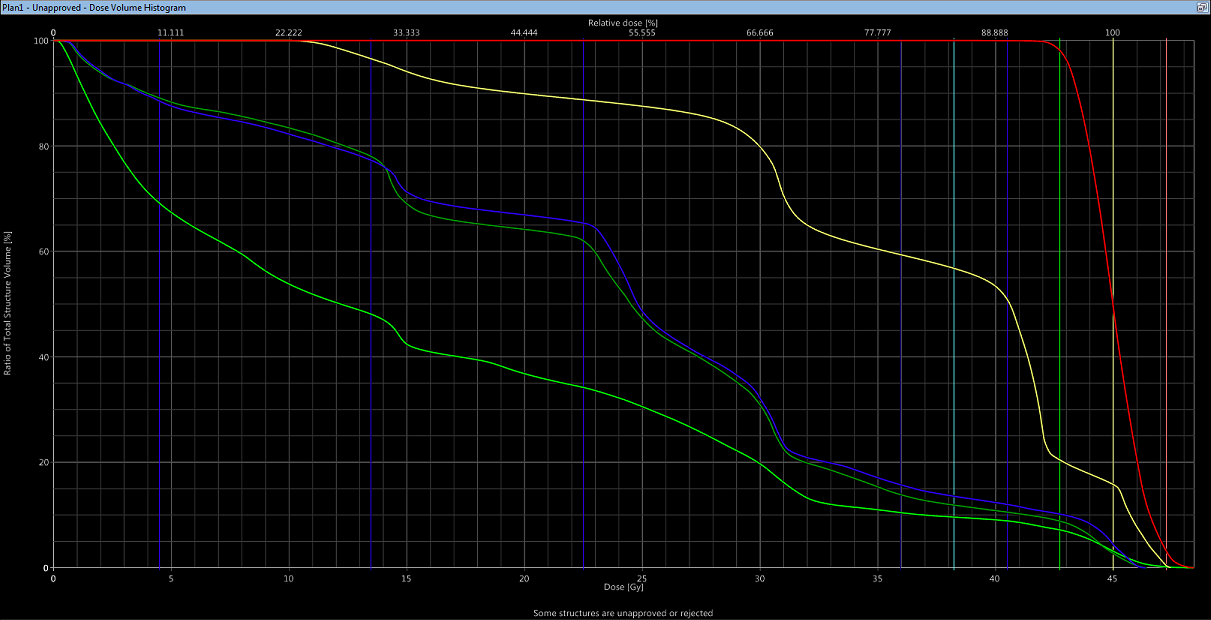
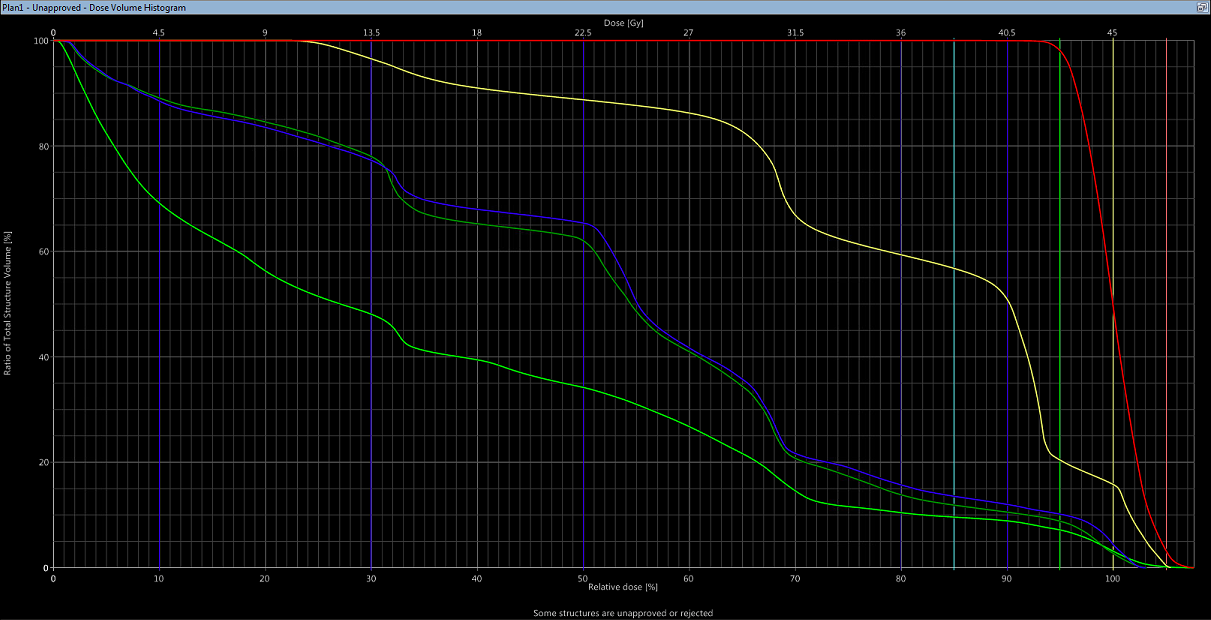
Rektum

diff --git a/TPSPraktikum-master/TPSPraktikum-master/Rektum/content/diskussion.tex b/TPSPraktikum-master/TPSPraktikum-master/Rektum/content/diskussion.tex
@@ -1,2 +1,126 @@
 \section{Auswertung und Diskussion}
 \label{sec:AuswertungDiskussion}
+
+\subsection*{Bestrahlungsplan für das PTV1}
+
+Mit dem ersten Bestrahlungsplan wird das PTV1 bestrahlt. Die resultierende Dosisverteilung
+ist in den Abbildungen \ref{abb:Z1}, \ref{abb:Y1} und \ref{abb:X1} dargestellt.
+Dabei ist die Dosisverteilung aus der transversalen, frontalen und sagittalen Ansicht gezeigt.
+Anhand der Dosisverteilung ist zu erkennen, dass obwohl das PTV1 relativ groß ist, es gut gelungen ist das
+PTV1 mit der $95\%$ Isodosenlinie zu umschließen. Das PTV1 geht bis zum Anus und da dieser Bereich nah an der Körperoberfläche
+liegt, war es in diesem Bereich nicht möglich eine relative Dosis von $95\%$ zu erreichen.
+Außerdem ist zu erkennen, dass die maximale relative Dosis $107,6\%$ innerhalb des PTV1 liegt und auch nur minimal
+über der erlaubten maximalen Dosis von $107\%$ liegt \cite{ICRU}. Es wird zum Teil auch ausserhalb des PTVs eine hohe relative Dosis deponiert.
+Das kommt daher, da das PTV teilweise von Knochen umgeben ist und es somit unvermeidlich ist, dass dort eine hohe Dosis deponiert wird.
+Die minimale relative Dosis, die im PTV1 deponiert wird ist $78,9\%$. Diese liegt unterhalb der gewünschten relativen Dosis von $95\%$ und das
+liegt zum einen an den bereits beschriebenen Gründen und zum anderen daran, dass die Blase so gut wie möglich geschont werden muss.
+
+\begin{figure}[H]
+  \centering
+  \includegraphics[width=\textwidth]{Bilder/Rektum1_Z.png}
+  \caption{Darstellung der Dosisverteilung im Rumpf in Transversalansicht.}
+  \label{abb:Z1}
+\end{figure}
+
+\begin{figure}[H]
+  \centering
+  \includegraphics[width=\textwidth]{Bilder/Rektum1_Y.png}
+  \caption{Darstellung der Dosisverteilung im Rumpf in Frontalansicht.}
+  \label{abb:Y1}
+\end{figure}
+
+\begin{figure}[H]
+  \centering
+  \includegraphics[width=\textwidth]{Bilder/Rektum1_X.png}
+  \caption{Darstellung der Dosisverteilung im Rumpf in Sagittalansicht.}
+  \label{abb:X1}
+\end{figure}
+
+Damit die Dosisverteilung besser beurteilt werden kann, ist in der Abbildung \ref{abb:DVH1} das zugehörige DVH
+dargestellt. Anhand der DVH Kurve für das PTV1 (rot) ist zu erkennen, dass nur ein geringer Teil des PTVs eine Dosis von weniger als
+$95\%$ erhält. Dadurch, dass die Kurve sehr schnell abfällt wird auch deutlich, dass auch nur ein sehr geringer Teil des PTVs die maximale Dosis erhält.
+Bei diesem Bestrahlungsplan ist es nicht gelungen die Blase gut zu schützen. Das ist anhand der gelben DVH Kurve zu erkennen. Die relative maximale Dosis
+der Blase liegt bei $105,5\%$ und die DVH Kurve fällt auch nur langsam ab. Auch die Hüftköpfe erhalten eine hohe maximale Dosis von $103,2\%$ und $103,1\%$.
+Um zu überprüfen zu können ob die Organdosisgrenzwerte eingehalten worden sind, müssen beide Bestrahlungspläne betrachtet werden. Aus diesem
+Grund wird die Dosisverteilung der Risikoorgane am Ende des Protokolls genauer untersucht.
+Anhand der DVH Kurve für den gesamten Rumpf (grün) ist zu erkennen, dass das in dem gesamten Gebiet viel Dosis deponiert wird. In etwa $35\%$ des
+Rumpfes wird noch eine relative Dosis von $50\%$ deponiert. Das lässt sich nicht vermeiden, da das PTV1 sehr groß ist.
+
+\begin{figure}[H]
+  \centering
+  \includegraphics[width=\textwidth]{Bilder/Rektum1_DVH.png}
+  \caption{Dosis-Volumen-Histogramm für das PTV1 in rot und den gesamten Rumpf in grün. Außerdem ist das DVH für die Blase in gelb, für den linken Hüftkopf in dunklgrün und für den rechten Hüftkopf in blau dargestellt.}
+  \label{abb:DVH1}
+\end{figure}
+
+\subsection*{Bestrahlungsplan für das PTV2}
+
+Bei dem zweiten Bestrahlungsplan wird das kleinere PTV2 bestrahlt. Bei dieser zweiten Serie ist die
+applizierte Gesamtdosis auch deutlich geringer als bei der ersten Serie.
+Die resultierende Dosisverteilung ist in den Abbildungen \ref{abb:Z2}, \ref{abb:Y2} und \ref{abb:X2} gezeigt.
+Dabei sind die gleichen Ansichten gezeigt, wie bei dem ersten Plan. Anhand der gezeigten Ansichten der
+Dosisverteilung ist zu erkennen, dass das PTV2 gut mit der $95\%$ Isodosenlinie umschlossen werden konnte.
+Auch bei diesem Plan liegt die maximale relative Dosis $104,3\%$ innerhalb des PTV2. Diese maximale Dosis liegt unterhalb
+der erlaubten maximalen Dosis von $107\%$. Die minimale Dosis in dem PTV2 liegt bei $93\%$. Diese Dosis liegt minimal unterhalb des gewünschten
+Dosis von $95\%$.
+
+\begin{figure}[H]
+  \centering
+  \includegraphics[width=\textwidth]{Bilder/Rektum2_Z.png}
+  \caption{Darstellung der Dosisverteilung im Rumpf in Transversalansicht.}
+  \label{abb:Z2}
+\end{figure}
+
+\begin{figure}[H]
+  \centering
+  \includegraphics[width=\textwidth]{Bilder/Rektum2_Y.png}
+  \caption{Darstellung der Dosisverteilung im Rumpf in Frontalansicht.}
+  \label{abb:Y2}
+\end{figure}
+
+\begin{figure}[H]
+  \centering
+  \includegraphics[width=\textwidth]{Bilder/Rektum2_X.png}
+  \caption{Darstellung der Dosisverteilung im Rumpf in Sagittalansicht.}
+  \label{abb:X2}
+\end{figure}
+
+Das zugehörige DVH ist in der Abbildung \ref{abb:DVH2} gezeigt. Anhand des DVHs für das PTV2 (rot)
+ist zu erkennen, dass nur ein sehr kleiner Teil des PTVs eine geringere Dosis als $95\%$ erhält.
+Außerdem ist anhand des DVHs von dem gesamten Rumpf zu erkennen, dass der Großteil des Rumpfes
+nur eine geringe Dosis erhält. Etwa $6\%$ des Rumpfes erhält noch eine relative Dosis von $50\%$.
+Anhand der DVH Kurven der Risikoorgane ist zu erkennen, dass diese bei diesem Plan besser geschont werden konnten.
+Allerdings ist die relative maximale Dosis der Blase auch hier $101,9\%$ und der Hüftköpfe bei $78,3\%$ und $96,9\%$.
+Im folgenden wird die Summe der beiden Pläne betrachtet um beurteilen zu können ob die Organdosisgrenzwerte eingehalten
+worden sind.
+
+\begin{figure}[H]
+  \centering
+  \includegraphics[width=\textwidth]{Bilder/Rektum2_DVH.png}
+  \caption{Dosis-Volumen-Histogramm für das PTV2 in rot und den gesamten Rumpf in grün. Außerdem ist das DVH für die Blase in gelb, für den linken Hüftkopf in dunklgrün und für den rechten Hüftkopf in blau dargestellt.}
+  \label{abb:DVH2}
+\end{figure}
+
+\subsubsection*{Summe der Bestrahlungspläne}
+
+In der Abbildung \ref{abb:DVHsum} ist das DVH der Summe der beiden Bestrahlungspläne dargestellt.
+Die Organdosisgrenzwerte werden aus der QUANTEC Tabelle entnommen \cite{QUANTEC}. Der Grenzwert für die
+Blase beträgt $\SI{65}{\gray}$ und bei den Hüftköpfen darf nur weniger als $10\%$ des Volumens eine Dosis von $\SI{52}{\gray}$ erhalten.
+Anhand des DVHs der Summe
+der beiden Bestrahlungspläne ist zu erkennen, dass die Blase insgesamt eine maximale Dosis von
+$\SI{50.989}{\gray}$ erhält. Diese Dosis liegt noch deutlich unterhalb des Grenzwertes.
+Die Hüftköpfe erhalten eine maximale Dosis von $\SI{49.695}{\gray}$ und $\SI{50.349}{\gray}$.
+Auch diese Dosen liegen unterhalb des Grenzwertes.
+
+\begin{figure}[H]
+  \centering
+  \includegraphics[width=\textwidth]{Bilder/Rektum_summe.png}
+  \caption{Dosis-Volumen-Histogramm für die Summe der beiden Bestrahlungspläne. Für das PTV1 und PTV2 in rot und den gesamten Rumpf in grün. Außerdem ist das DVH für die Blase in gelb, für den linken Hüftkopf in dunkelgrün und für den rechten Hüftkopf in blau.}
+  \label{abb:DVHsum}
+\end{figure}
+
+Insgesamt wurden bei dieser Bestrahlungsplanung relativ viele Felder verwendet um eine
+akzeptable Dosisverteilung zu erreichen. Durch die Verwendung von MLCs ist es gelungen
+die Organdosisgrenzwerte der Blase und der Hüftköpfe nicht zu überschreiten.
+Außerdem ist das PTV in beiden Bestrahlungsplänen hinreichend mit der $95\%$ Isodosenlinie
+umschlossen worden.

diff --git a/TPSPraktikum-master/TPSPraktikum-master/Rektum/content/auswertung.tex b/TPSPraktikum-master/TPSPraktikum-master/Rektum/content/auswertung.tex
@@ -1,6 +1,14 @@
 \section{Bestrahlungsplanung}
 \label{sec:Bestrahlungsplanung}
-Bei dieser Strahlentherapie wird die Shrinking-Field-Technik angewendet und aus diesem Grund werden zwei Bestrahlungspläne benötigt. Das PTV ist in den CT-Daten bereits eingezeichnet und als nächstes wird die Kontur des Körpers und von den Risikoorganen in die vorliegenden CT-Bilder eingezeichnet. Risikoorgane in diesem Fall sind die Blase und die Hüftkörper. Hierbei muss bei dieser Planung die applizierte Dosis im Gewebe beobachtet werden und dass der Organdosisgrenzwert nicht überschritten wird. Die Zielvolumina der beiden Bestrahlungen sind bereits als PTV1 und als PTV2 eingezeichnet. Dabei ist PTV1 das größere Zielvolumen und PTV2 das kleinere. Im ersten Bestrahlungsplan wird nur das PTV1 betrachtet. Für die Bestrahlung dieses Zielvolumens (PTV1) werden fünf Felder verwendet. Die Gantry-Rotationen und die Gewichtungen für das erste PTV sind in der Tabelle \ref{tab:Felder1} dargestellt.
+Bei dieser Strahlentherapie wird die Shrinking-Field-Technik angewendet und aus diesem Grund werden zwei Bestrahlungspläne benötigt.
+Bei diesen CT-Bildern ist darauf zu achten, dass der Patient auf dem Bauch liegt. Das bedeutet, dass in diesem
+Fall die anterior Richtung und die posterior Richtung vertauscht ist.
+Die beiden PTVs sind in den CT-Daten bereits eingezeichnet, als PTV1 und PTV2. Dabei ist PTV1 das größere Zielvolumen und PTV2 das kleinere.
+Die Kontur des Körpers und die Kontur von Risikoorganen werden in den
+vorliegenden CT-Bilder noch eingezeichnet. Risikoorgane bei dieser Bestrahlung sind die Blase und die Hüftköpfe. Bei dieser Planung muss darauf geachtet
+werden, dass der Organdosisgrenzwert nicht überschritten wird. Im ersten Bestrahlungsplan wird nur das PTV1 betrachtet.
+Für die Bestrahlung dieses Zielvolumens (PTV1) werden fünf Felder verwendet.
+Die Gantry-Rotationen und die Gewichtungen für das erste PTV sind in der Tabelle \ref{tab:Felder1} dargestellt.
 
 \begin{table}
 	\centering
@@ -10,17 +18,23 @@ Bei dieser Strahlentherapie wird die Shrinking-Field-Technik angewendet und aus 
 		\toprule
 		Feld & Gantry-Rotation & Gewichtung & Feldgröße\\
 		\midrule
-		$1$ & $0°$ & $0,300$ & $14,7$x$24,4 \si{\centi\meter\squared}$ \\
-		$2$ & $90°$ & $0,100$ & $15,7$x$25,2 \si{\centi\meter\squared}$ \\
-		$3$ & $270°$ & $0,100$ & $16,5$x$25,2 \si{\centi\meter\squared}$ \\
-		$4$ & $130°$ & $0,250$ & $16,5$x$26,9 \si{\centi\meter\squared}$ \\
-		$5$ & $230°$ & $0,250$ & $17,6$x$26,9 \si{\centi\meter\squared}$ \\
+		$1$ & $0°$   & $0,30$ & $\num{14.7}$x$\num{24.4} \si{\centi\meter\squared}$ \\
+		$2$ & $90°$  & $0,10$ & $\num{15.7}$x$\num{25.2} \si{\centi\meter\squared}$ \\
+		$3$ & $270°$ & $0,10$ & $\num{16.5}$x$\num{25.2} \si{\centi\meter\squared}$ \\
+		$4$ & $130°$ & $0,25$ & $\num{16.5}$x$\num{26.9} \si{\centi\meter\squared}$ \\
+		$5$ & $230°$ & $0,25$ & $\num{17.6}$x$\num{26.9} \si{\centi\meter\squared}$ \\
 		\bottomrule
 	\end{tabular}
 \end{table}
 
-Für alle Felder werden MLCs verwendet, die jeweils manuell an das PTV1 angepasst worden sind. Bei den Einstellungen der Lamellen ist darauf geachtet worden, dass die Blase so gut wie möglich geschont wird. Der Abstand zum PTV wird auf $\SI{1}{\centi\meter}$ eingestellt. Der Bestrahlungsplan wird auf "$\SI{100}{\percent}$ target mean"  normiert.
-Für den Bestrahlungsplan für das PTV2 werden die gleichen Gantry-Rotationen und Gewichtungen verwendet, aber in diesem Fall andere Felder. Diese Felder befinden sich in der Tabelle \ref{tab:Felder2}. Hierbei werden auch MLCs wieder verwendet, die jeweils manuell an das PTV2 angepasst werden. Der Abstand zum PTV wird auf $\SI{1}{\centi\meter}$ eingestellt. Es wird hier auch darauf geachtet, dass die Blase und die Hüftkörper geschützt werden. Der Bestrahlungsplan wird hier auch auf "$\SI{100}{\percent}$ target mean" normiert.
+Bei allen Feldern werden MLCs verwendet, die jeweils manuell an das PTV1 angepasst worden sind.
+Bei den Einstellungen der Lamellen ist darauf geachtet worden, dass die Blase so gut wie möglich geschont wird.
+Der Bestrahlungsplan wird auf "$\SI{100}{\percent}$ target mean"  normiert.
+Für den Bestrahlungsplan für das PTV2 werden die gleichen Gantry-Rotationen und Gewichtungen verwendet, aber in diesem Fall werden die Feldgrößen angepasst.
+Die Daten zu diesen Feldern sind in der Tabelle \ref{tab:Felder2} dargestellt.
+Hierbei werden auch MLCs wieder verwendet, die jeweils manuell an das PTV2 angepasst werden.
+Es wird hier auch darauf geachtet, dass die Blase und die Hüftkörper geschützt werden.
+Dieser Bestrahlungsplan wird auch auf "$\SI{100}{\percent}$ target mean" normiert.
 
 \begin{table}
 	\centering
@@ -30,13 +44,11 @@ Für den Bestrahlungsplan für das PTV2 werden die gleichen Gantry-Rotationen un
 		\toprule
 		Feld & Gantry-Rotation & Gewichtung & Feldgröße\\
 		\midrule
-		$1$ & $0°$ & $0,300$ & $10,4$x$10 \si{\centi\meter\squared}$ \\
-		$2$ & $90°$ & $0,100$ & $8,6$x$10 \si{\centi\meter\squared}$ \\
-		$3$ & $270°$ & $0,100$ & $8,6$x$10 \si{\centi\meter\squared}$ \\
-		$4$ & $130°$ & $0,250$ & $8,6$x$10 \si{\centi\meter\squared}$ \\
-		$5$ & $230°$ & $0,250$ & $9,8$x$9,7 \si{\centi\meter\squared}$ \\
+		$1$ & $0°$ & $0,30$   & $\num{10.4}$x$\num{10} \si{\centi\meter\squared}$ \\
+		$2$ & $90°$ & $0,10$  & $\num{8.6}$x$\num{10}\si{\centi\meter\squared}$ \\
+		$3$ & $270°$ & $0,10$ & $\num{8.6}$x$\num{10}\si{\centi\meter\squared}$ \\
+		$4$ & $130°$ & $0,25$ & $\num{8.6}$x$\num{10}\si{\centi\meter\squared}$ \\
+		$5$ & $230°$ & $0,25$ & $\num{9.8}$x$\num{9.7} \si{\centi\meter\squared}$ \\
 		\bottomrule
 	\end{tabular}
 \end{table}
-
-Das Ziel ist es, die umliegenden Organe bzw. Gewebe, vor allem die Blase und die Hüftköpfe möglichst gut zu schonen und dass das PTV von der $\SI{95}{\percent}$ Isodosenlinie umschlossen wird.

diff --git a/TPSPraktikum-master/TPSPraktikum-master/Rektum/content/durchfuehrung.tex b/TPSPraktikum-master/TPSPraktikum-master/Rektum/content/durchfuehrung.tex
@@ -1,9 +1,17 @@
 \section{Patientenvorstellung}
 \label{sec:Durchführung}
-Bei dem Patient ist ein Rektumkarzinom diagnostiziert worden. Im Jahr 2014 wurden bei ihm rektale Blutungen festgestellt und es wurden eine Reihe von Untersuchungen (Rektoskopie mit Probenentnahme und Koloskopie) durchgeführt. 
-Der Patient wiegt $\SI{88}{\kilogram}$, ist $\SI{176}{\centi\meter}$ groß und bei ihm gibt es keine Stuhl- als auch Urininkontinenz. Außerdem leidet er an einer arteriellen Hypertonie und Prostatahyperplasie. Dabei wurde er über die möglichen Wirkungen und Nebenwirkungen der Strahlentherapie durch den Arzt aufgeklärt. 
-Im weiteren Verlauf soll eine kurativ intendierte neoadjuvante kombinierte Chemo-Strahlentherapie stattfinden, wobei eine Gesamtdosis von $\SI{50,4}{\gray}$ in
-Shrinking-Field-Technik appliziert werden soll. Bei der Shrinking-Field-Technik wird nach einer ersten Bestrahlungsserie das Zielvolumen in einer zweiten Serie verkleinert.
-In der ersten Bestrahlungsserie wird eine Gesamtdosis von $\SI{45,4}{\gray}$ appliziert, welche in Fraktionen von $\SI{1,8}{\gray}$ in insgesamt 5 Sitzungen pro Woche appliziert werden soll.
-In der zweiten Serie wird mit einer Gesamtdosis von $\SI{5,4}{\gray}$ das kleinere PTV bestrahlt, welche auch in Fraktionen von $\SI{1,8}{\gray}$ in insgesamt 5 Sitzungen pro Woche appliziert werden soll. Es ergibt sich also eine Gesamtzielvolumendosis von $\SI{50,4}{\gray}$.
-Es soll erreicht werden, dass das die beiden PTVs von der $\SI{95}{\percent}$ Isodosenlinie umschlossen werden. 
+Bei dem Patient ist ein Rektum Karzinom diagnostiziert worden.
+Im Jahr 2014 wurden bei ihm rektale Blutungen festgestellt und aus diesem Grund ist eine
+Rektoskopie und eine Koloskopie durchgeführt worden.
+Der Patient wiegt $\SI{88}{\kilogram}$, ist $\SI{176}{\centi\meter}$ groß und es besteht keine Stuhl- oder Urininkontinenz.
+Außerdem leidet der Patient an einer arteriellen Hypertonie und Prostatahyperplasie.
+Es soll eine kurativ intendierte neoadjuvante kombinierte Chemo-Strahlentherapie stattfinden,
+wobei eine Gesamtdosis von $\SI{50,4}{\gray}$ in
+Shrinking-Field-Technik appliziert wird.
+Bei der Shrinking-Field-Technik wird nach einer ersten Bestrahlungsserie das Zielvolumen in einer zweiten Serie verkleinert.
+In der ersten Bestrahlungsserie wird eine Gesamtdosis von $\SI{45,4}{\gray}$ appliziert,
+welche in Fraktionen von $\SI{1,8}{\gray}$ in insgesamt 5 Sitzungen pro Woche appliziert werden soll.
+In der zweiten Serie wird mit einer Gesamtdosis von $\SI{5,4}{\gray}$ das kleinere PTV bestrahlt,
+welche auch in Fraktionen von $\SI{1,8}{\gray}$ in insgesamt 5 Sitzungen pro Woche appliziert werden soll.
+Es soll erreicht werden, dass das die beiden PTVs von der $\SI{95}{\percent}$ Isodosenlinie umschlossen werden.
+In Anschluss an die neoadjuvante Strahlentherapie wird der Tumor operativ entfernt.

diff --git a/TPSPraktikum-master/TPSPraktikum-master/Rektum/content/theorie.tex b/TPSPraktikum-master/TPSPraktikum-master/Rektum/content/theorie.tex
@@ -1,7 +1,9 @@
 \section{Einleitung}
 \label{sec:Einleitung}
-Die Strahlentherapie kann häufig in Kombination mit einer Chemotherapie für die Behandlung von bösartigen Tumore eingesetzt werden.
-Im nächsten Beispiel handelt es sich um ein bösartiger Tumor im letzten Teil des Dickdarms und zwar geht es um einen Rektumkarzinom.
-Polypen sind meist die Ursache für die Entstehung des Rektumkarzinoms und die häufigsten Symptome sind Schmerzen
-beim Stuhlgang als auch Blut im Stuhl \cite{Rektum}.
-Durch eine Strahlentherapie kombiniert mit einer Radiochemotherapie soll der bösartige Tumor des Patienten behandelt werden.
+
+Im diesem Beispiel wird ein maligner Tumor im letzten Teil des Dickdarms, ein so genanntes Rektum Karzinom, mit einer Strahlentherapie behandelt werden.
+Die Ursache für die Entstehung des Rektum Karzinoms sind meistens Polypen. Die häufigsten Symptome sind Schmerzen
+beim Stuhlgang und Blut im Stuhl \cite{Rektum}.
+Bei der Strahlentherapie handelt es sich um eine neoadjuvante Therapie.
+Das bedeutet, dass durch die Strahlentherapie der Tumor verkleinert werden soll
+und nach der Therapie der Tumor operativ entfernt wird.
